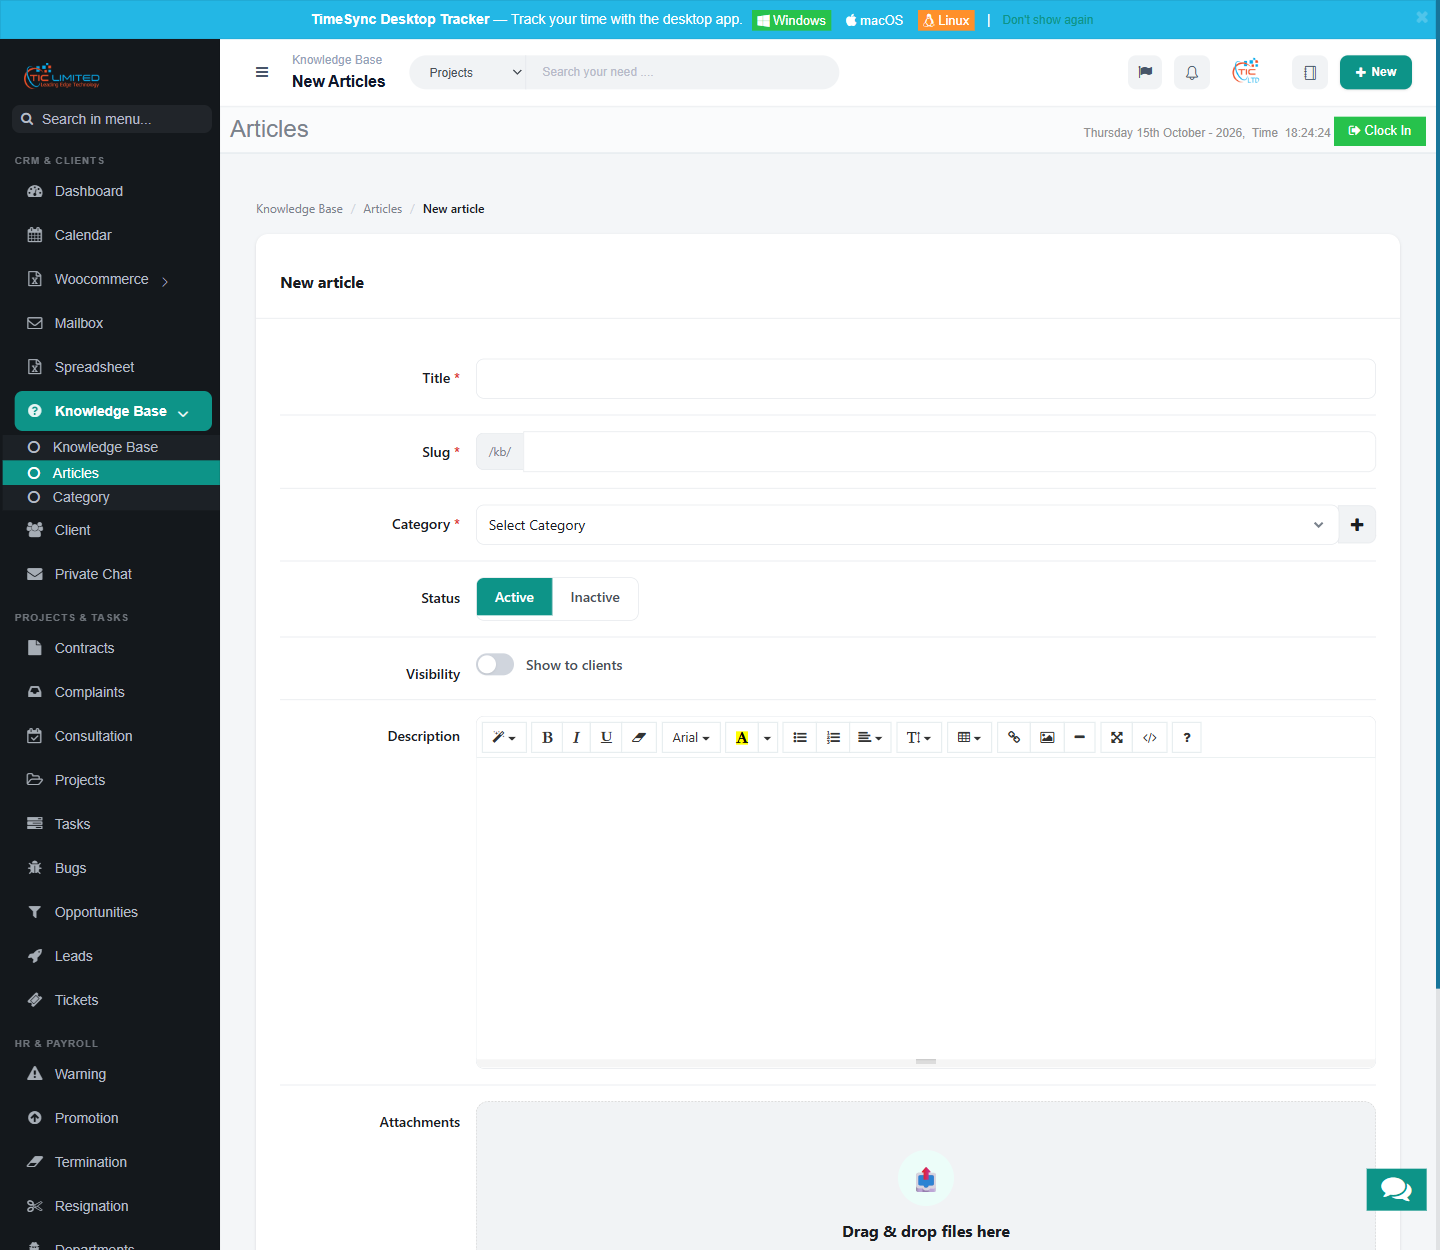
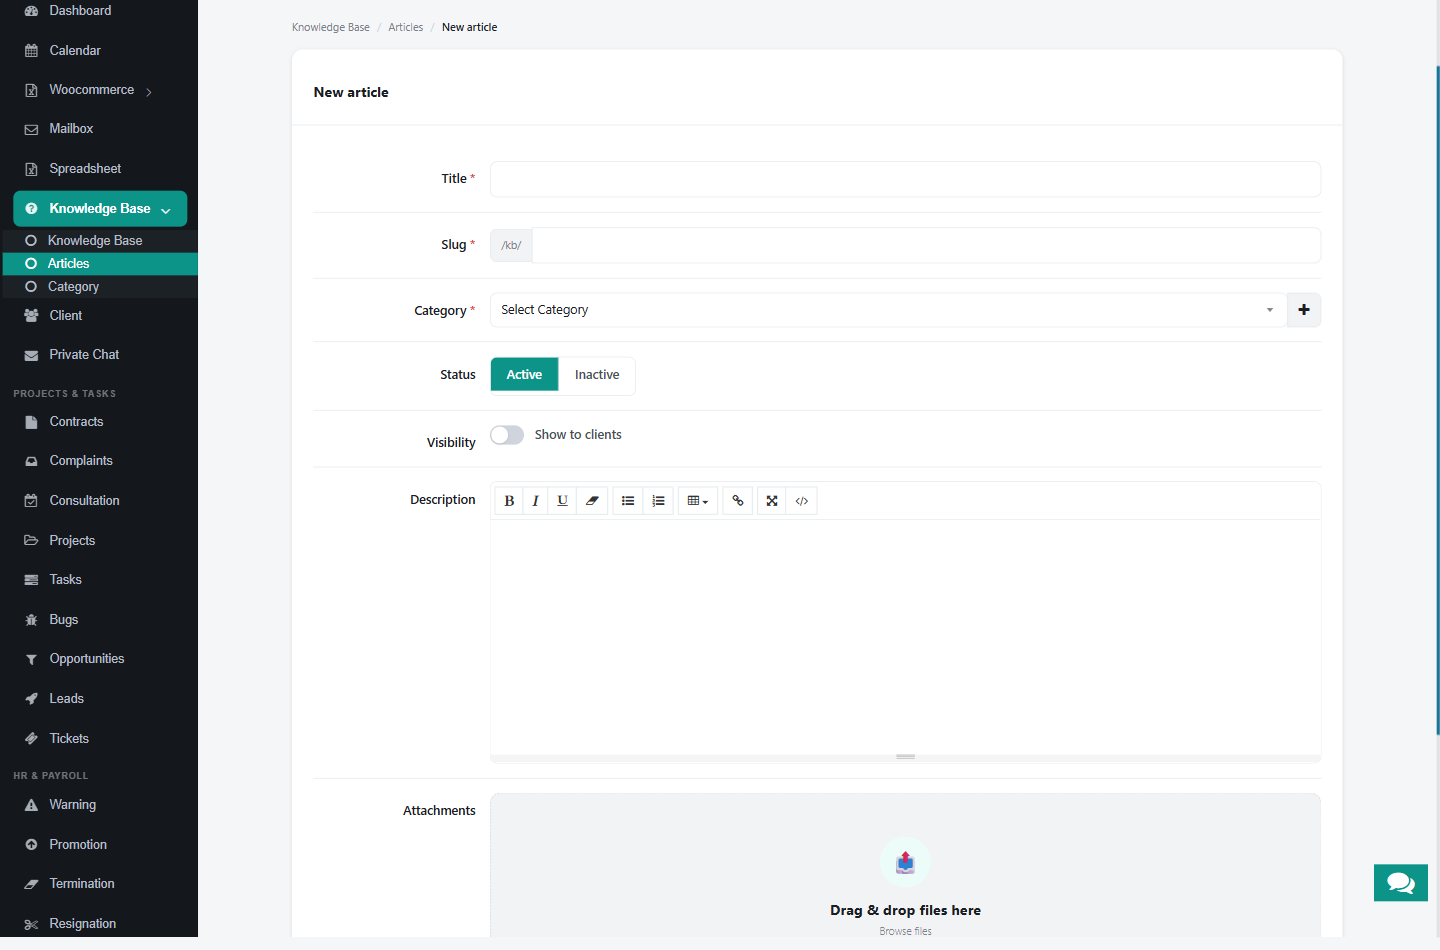
fix: init summernote and restore select2 on kb article form

diff --git a/application/views/admin/kb/new_articles.php b/application/views/admin/kb/new_articles.php
@@ -35,6 +35,35 @@ if (!empty($created) || !empty($edited)) {
 
         .kb-editor .note-editable { background: var(--c-surface); }
 
+        /* select2 (select_box) replaces the native select inside .kb-select-wrap;
+           mirror the kb-fin frame on its rendered box so it still matches the field. */
+        .kb-select-wrap .select2-container { display: block; }
+
+        .kb-select-wrap .select2-container .select2-selection--single {
+            height: 38px; /* aligns with .kb-fin inputs + the inline "+" button */
+            border: 1px solid var(--c-border);
+            border-radius: var(--r-md);
+            background: var(--c-surface);
+        }
+
+        .kb-select-wrap .select2-container .select2-selection--single .select2-selection__rendered {
+            line-height: 36px;
+            padding: 0 32px 0 var(--sp-3);
+            color: var(--c-text);
+            font-size: var(--fs-base);
+        }
+
+        .kb-select-wrap .select2-container .select2-selection--single .select2-selection__arrow {
+            height: 36px;
+            right: 10px;
+        }
+
+        .kb-select-wrap .select2-container.select2-container--focus .select2-selection--single,
+        .kb-select-wrap .select2-container--open .select2-selection--single {
+            border-color: var(--c-accent);
+            box-shadow: 0 0 0 3px var(--c-accent-subtle);
+        }
+
         .kb-form .kb-head-acts {
             display: flex;
             gap: var(--sp-2);
@@ -143,7 +172,7 @@ if (!empty($created) || !empty($edited)) {
                         <div class="kb-fcell">
                             <div class="kb-cat-select-row">
                                 <div class="kb-select-wrap">
-                                    <select class="kb-fin" name="kb_category_id" required>
+                                    <select class="kb-fin select_box" name="kb_category_id" required>
                                         <option value=""><?= lang('select') . ' ' . lang('categories') ?></option>
                                         <?php
                                         $kb_category_info = get_result('tbl_kb_category', array('status' => 1));
@@ -202,7 +231,7 @@ if (!empty($created) || !empty($edited)) {
                         <div class="kb-flabel"><?= lang('description') ?></div>
                         <div class="kb-fcell">
                             <div class="kb-editor">
-                                <textarea class="form-control textarea_lg"
+                                <textarea class="form-control textarea_lg kb-desc"
                                           name="description"><?php if (!empty($articles_info->description)) {
                                     echo $articles_info->description;
                                 } ?></textarea>
@@ -284,6 +313,23 @@ if (!empty($created) || !empty($edited)) {
                                     $('.gen_slug').change(function (e) {
                                         getSlug($(this).val());
                                     });
+
+                                    // Summernote WYSIWYG on the description — the library is
+                                    // loaded globally by admin/components/footer.php, so only
+                                    // the in-view init is needed (same pattern as search_box.php).
+                                    if (typeof $.fn.summernote === 'function') {
+                                        $('.kb-editor .kb-desc').summernote({
+                                            height: 260,
+                                            airMode: false,
+                                            toolbar: [
+                                                ['style', ['bold', 'italic', 'underline', 'clear']],
+                                                ['para', ['ul', 'ol']],
+                                                ['table', ['table']],
+                                                ['link', ['link']],
+                                                ['view', ['fullscreen', 'codeview']]
+                                            ]
+                                        });
+                                    }
 
                                     $('input[name="status"]').on("change", function () {
                                         $(this).closest("label").addClass("on").siblings("label").removeClass("on");

diff --git a/plan/_tools/kb-redesign-test.php b/plan/_tools/kb-redesign-test.php
@@ -79,6 +79,8 @@ $ok(strpos($kb_controller_src, 'kb-tag') !== false, 'kb controller list rows use
  * ===================================================================== */
 $kb_new_article_src = file_get_contents(ROOTPATH . 'application/views/admin/kb/new_articles.php');
 $ok(strpos($kb_new_article_src, 'kb-form') !== false, 'admin kb new_articles has kb-form');
+$ok(strpos($kb_new_article_src, '.summernote(') !== false, 'admin kb new_articles inits summernote on description');
+$ok(strpos($kb_new_article_src, 'kb-fin select_box') !== false, 'admin kb new_articles category select keeps select_box');
 
 /* ---------------------------------------------------------------------
  * Later tasks append their assertions ABOVE this line, e.g.:
